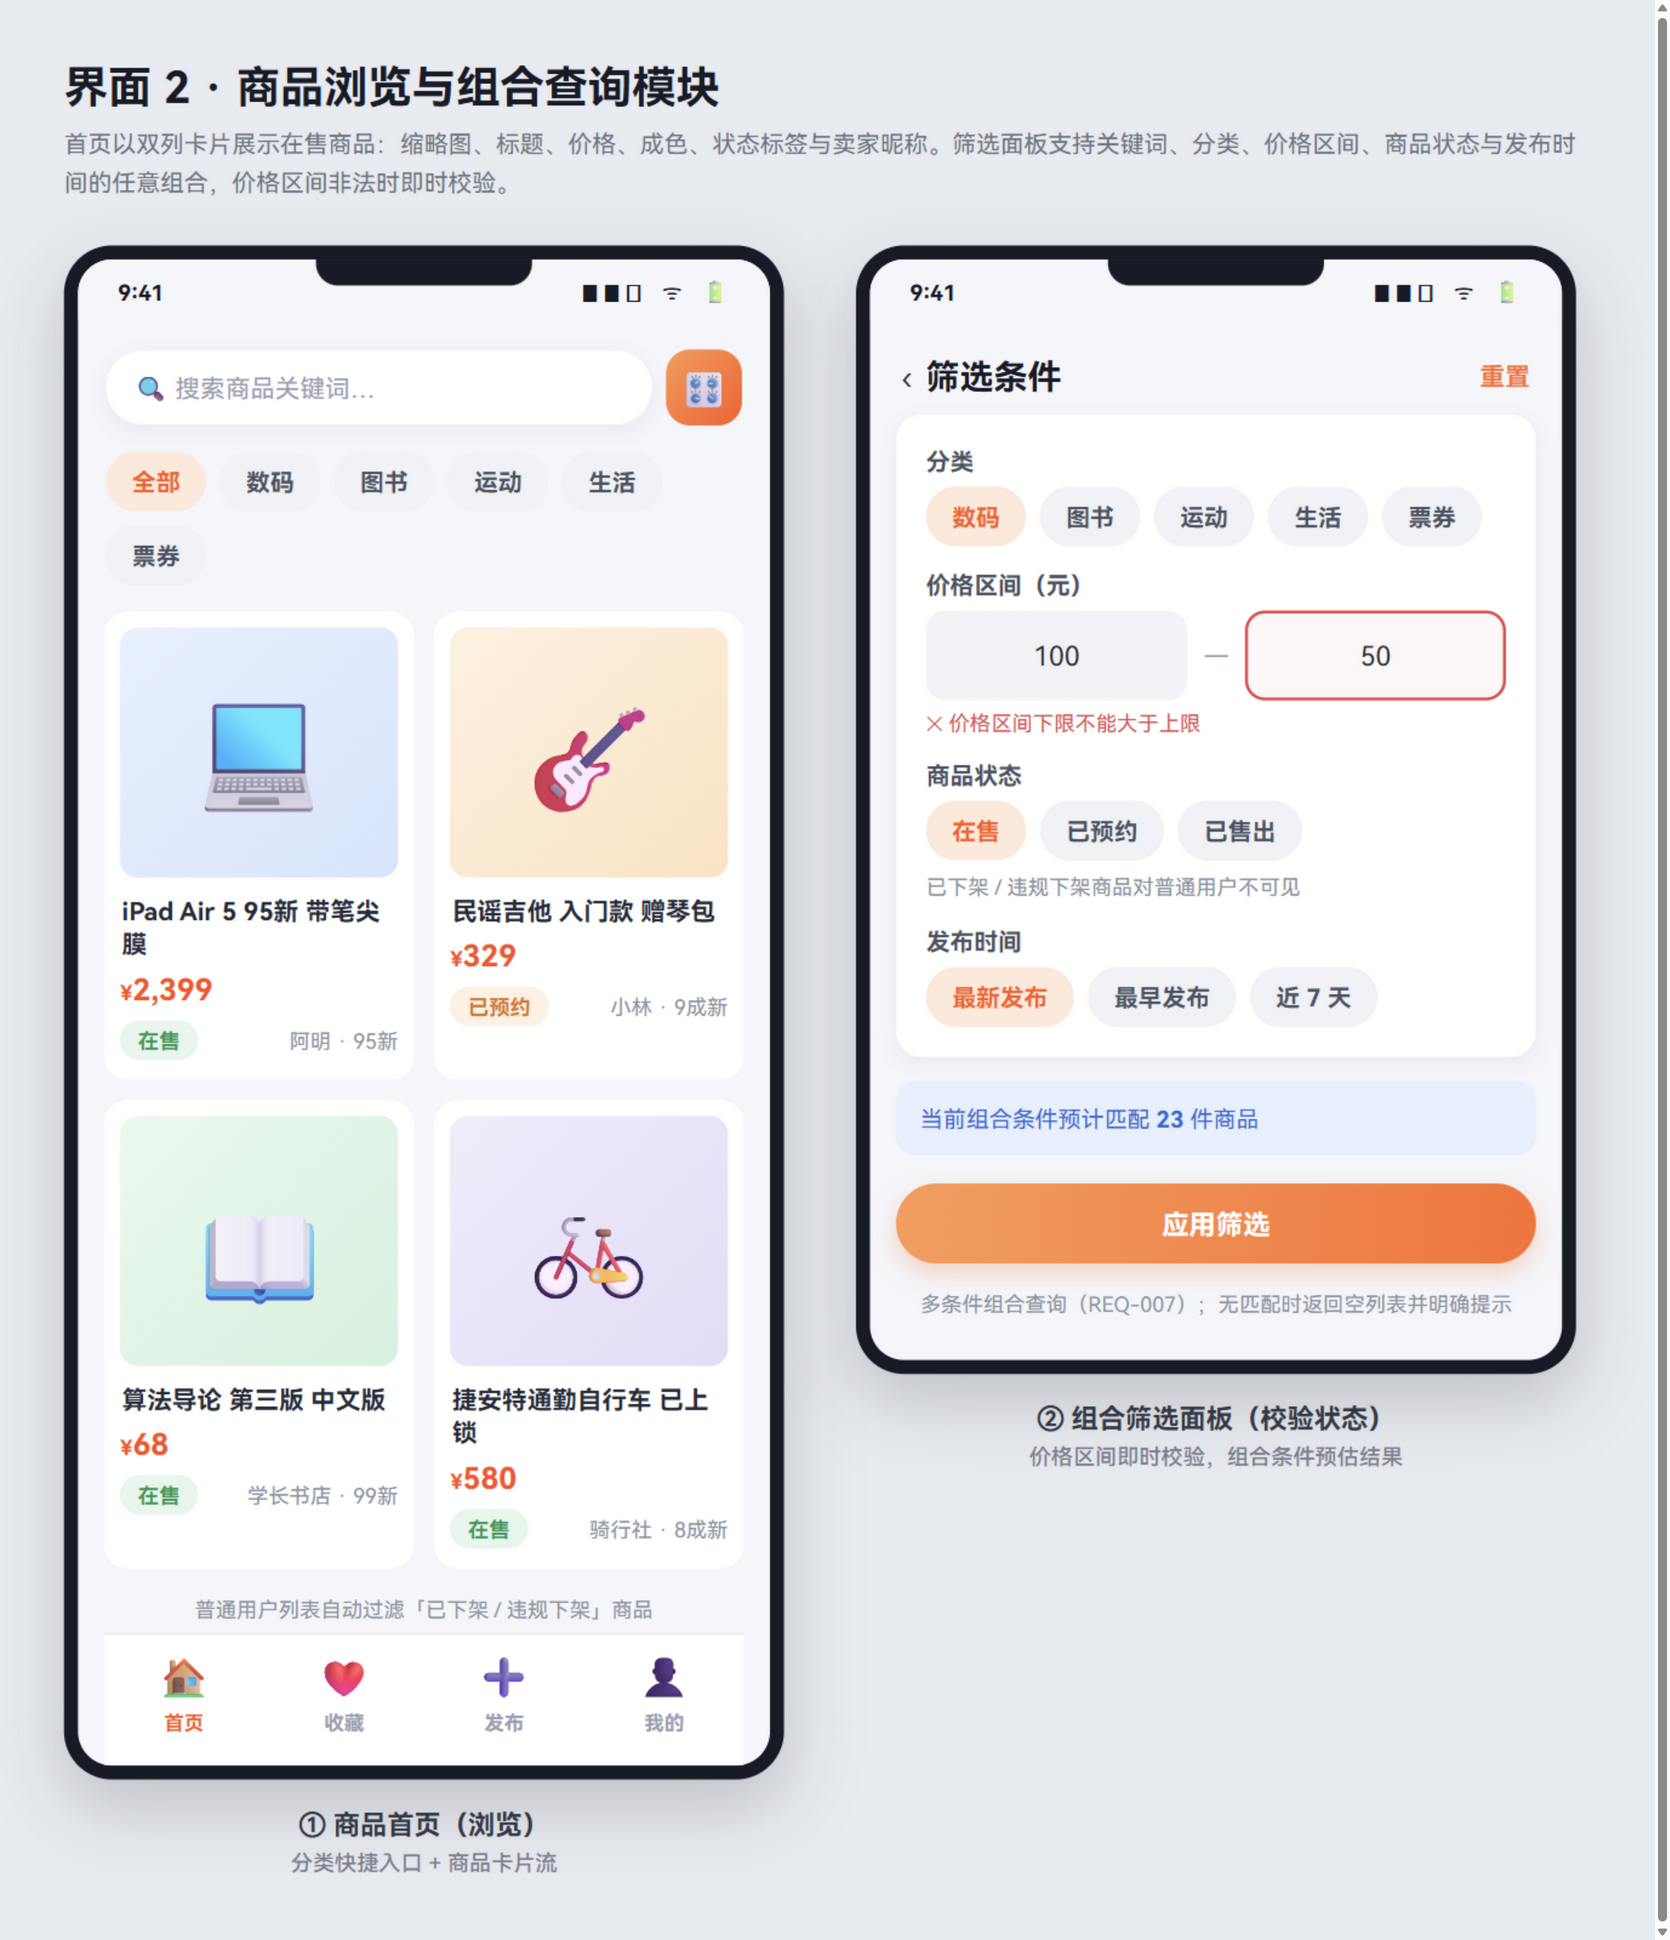
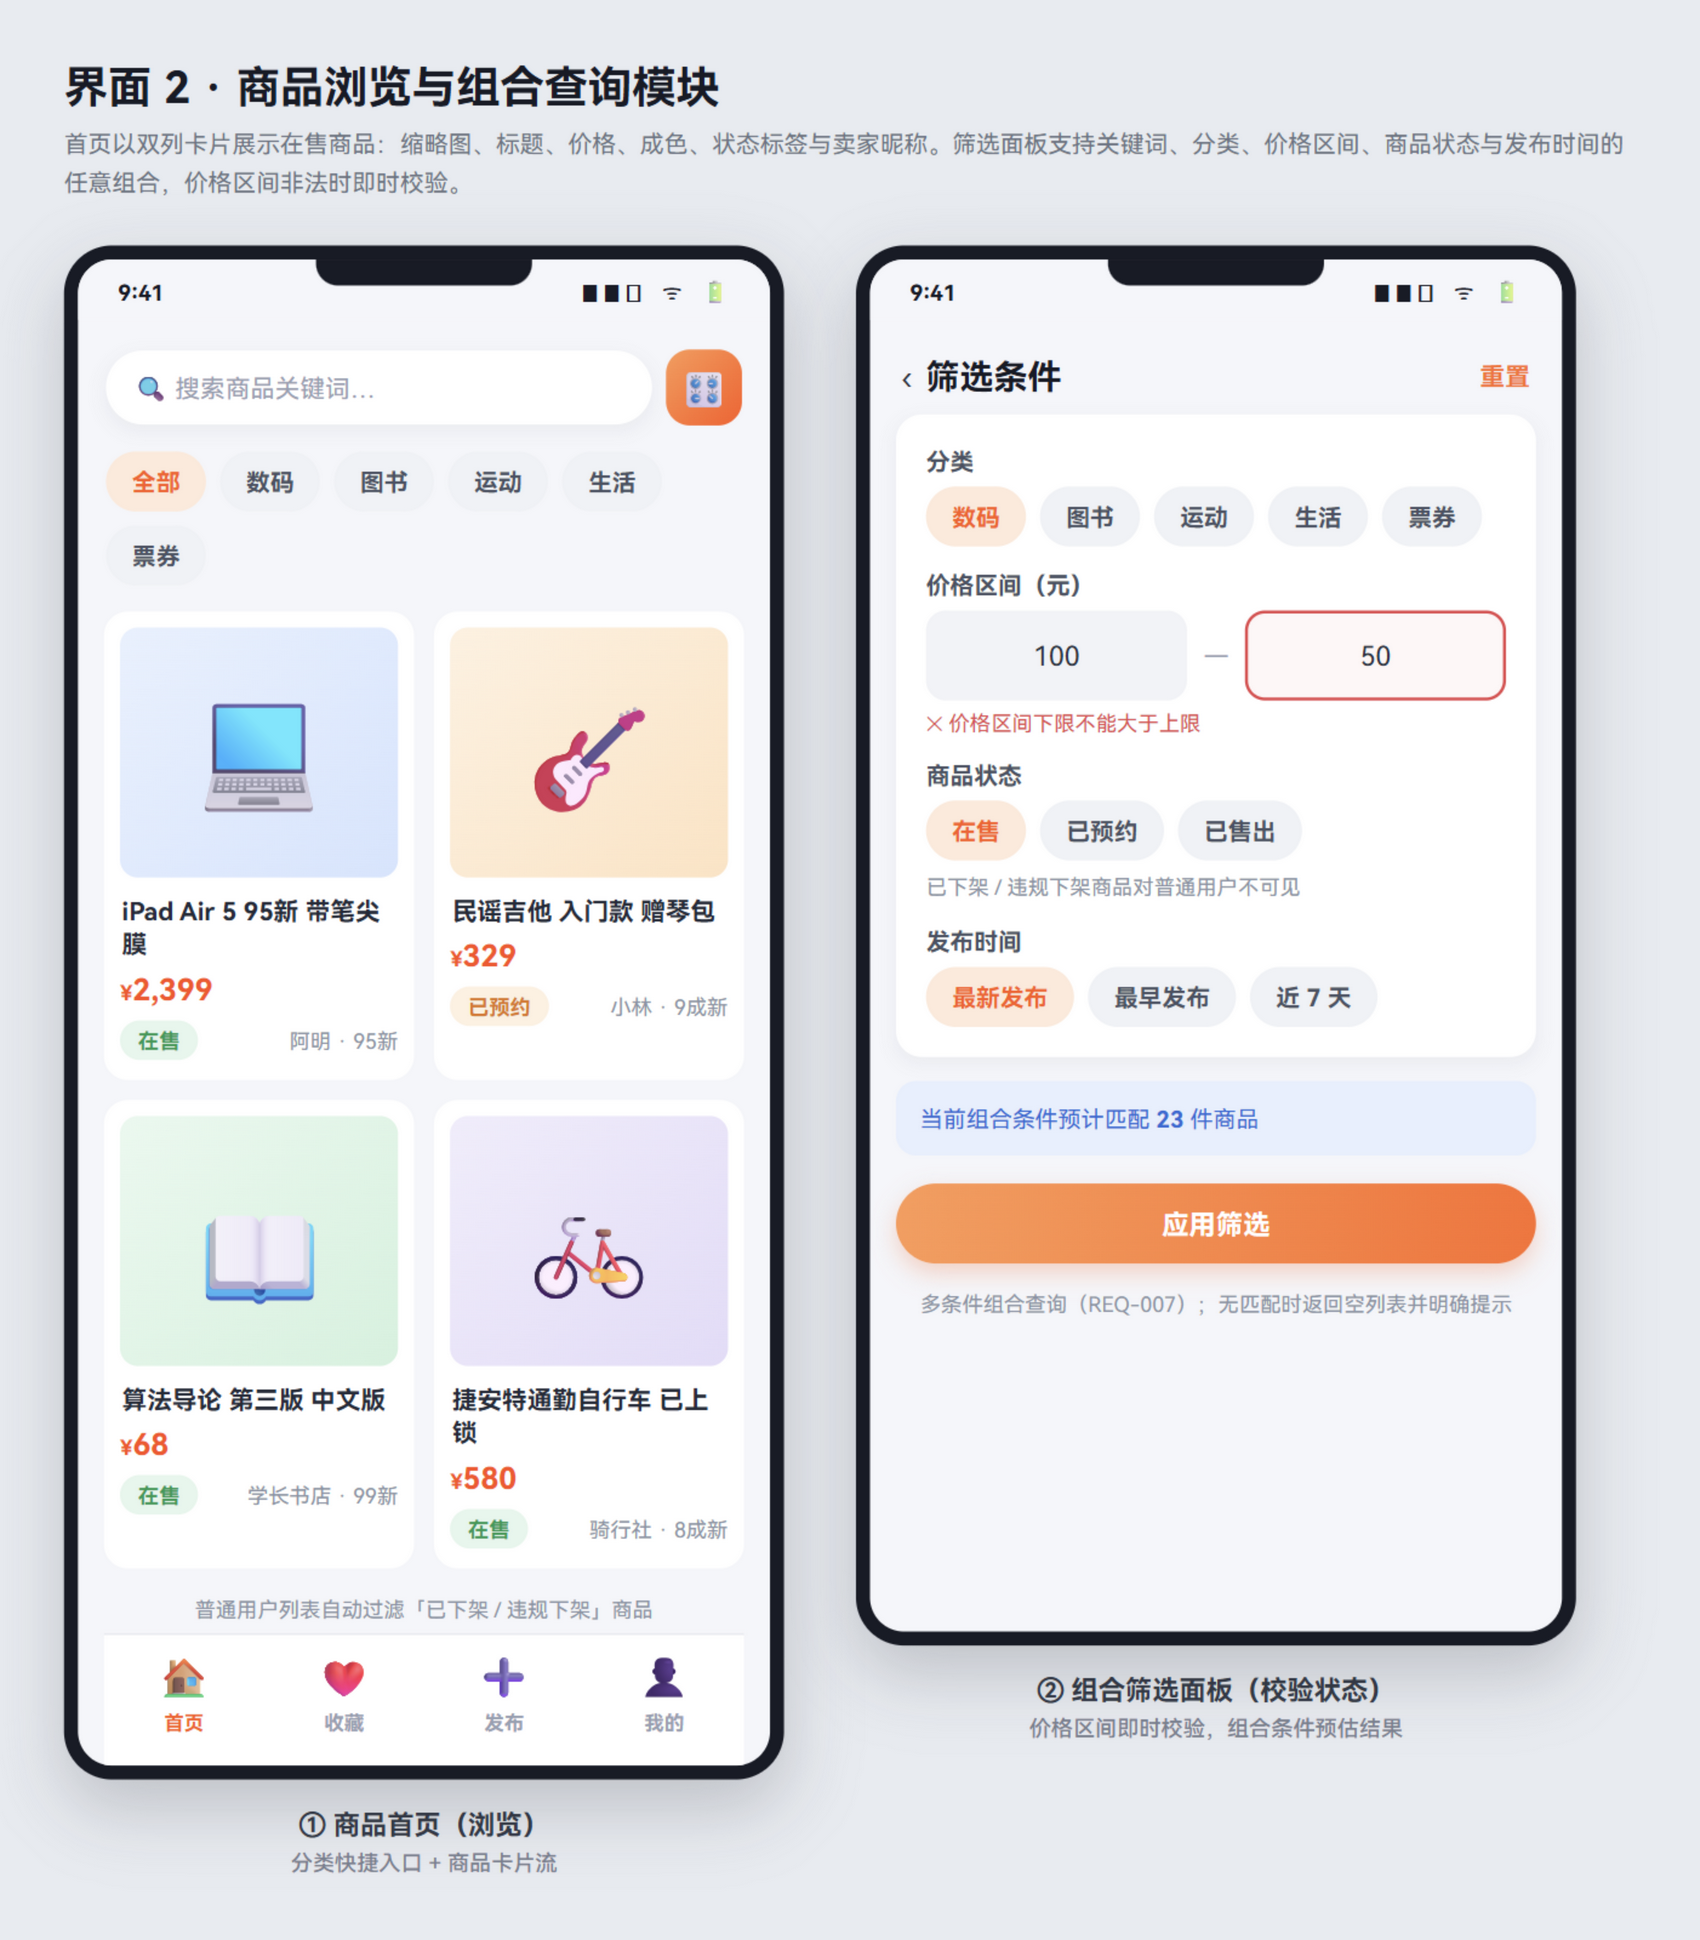
lab2 第四次人工修改：统一 UI 手机样机高度，重新导出全部界面图
[人工修改·第四次] 类别：UI 界面视觉修复

问题（逐屏目检发现）：样机高度随内容自适应，同图内左右两屏高度不一致，视觉不齐

修复：
- .phone 容器增加 min-height:1400px（720px 宽 x 2 倍渲染下）
- 更新 design-src 生成脚本并重新生成 HTML，重新导出 8 张界面 PNG

逐屏复检：冲突弹层、按钮锁定、状态同步等异常态细节与需求条款对应无误

diff --git a/lab2/design-src/ui/界面1.html b/lab2/design-src/ui/界面1.html
@@ -5,7 +5,7 @@ body { background:#E7EBF1; padding:56px 64px 64px; }
 .sub { font-size:24px; color:#6B7484; margin-bottom:44px; line-height:1.6; }
 .row { display:flex; gap:72px; align-items:flex-start; }
 .frame { display:flex; flex-direction:column; }
-.phone { width:720px; background:#F5F6FA; border:14px solid #171B26; border-radius:48px; overflow:hidden;
+.phone { width:720px; min-height:1400px; background:#F5F6FA; border:14px solid #171B26; border-radius:48px; overflow:hidden;
          box-shadow:0 28px 70px rgba(23,27,38,.20); position:relative; display:flex; flex-direction:column; }
 .phone::before { content:""; position:absolute; top:0; left:50%; transform:translateX(-50%);
                   width:216px; height:26px; background:#171B26; border-radius:0 0 22px 22px; z-index:9; }

diff --git a/lab2/design-src/ui/界面2.html b/lab2/design-src/ui/界面2.html
@@ -5,7 +5,7 @@ body { background:#E7EBF1; padding:56px 64px 64px; }
 .sub { font-size:24px; color:#6B7484; margin-bottom:44px; line-height:1.6; }
 .row { display:flex; gap:72px; align-items:flex-start; }
 .frame { display:flex; flex-direction:column; }
-.phone { width:720px; background:#F5F6FA; border:14px solid #171B26; border-radius:48px; overflow:hidden;
+.phone { width:720px; min-height:1400px; background:#F5F6FA; border:14px solid #171B26; border-radius:48px; overflow:hidden;
          box-shadow:0 28px 70px rgba(23,27,38,.20); position:relative; display:flex; flex-direction:column; }
 .phone::before { content:""; position:absolute; top:0; left:50%; transform:translateX(-50%);
                   width:216px; height:26px; background:#171B26; border-radius:0 0 22px 22px; z-index:9; }

diff --git a/lab2/design-src/ui/界面3.html b/lab2/design-src/ui/界面3.html
@@ -5,7 +5,7 @@ body { background:#E7EBF1; padding:56px 64px 64px; }
 .sub { font-size:24px; color:#6B7484; margin-bottom:44px; line-height:1.6; }
 .row { display:flex; gap:72px; align-items:flex-start; }
 .frame { display:flex; flex-direction:column; }
-.phone { width:720px; background:#F5F6FA; border:14px solid #171B26; border-radius:48px; overflow:hidden;
+.phone { width:720px; min-height:1400px; background:#F5F6FA; border:14px solid #171B26; border-radius:48px; overflow:hidden;
          box-shadow:0 28px 70px rgba(23,27,38,.20); position:relative; display:flex; flex-direction:column; }
 .phone::before { content:""; position:absolute; top:0; left:50%; transform:translateX(-50%);
                   width:216px; height:26px; background:#171B26; border-radius:0 0 22px 22px; z-index:9; }

diff --git a/lab2/design-src/ui/界面4.html b/lab2/design-src/ui/界面4.html
@@ -5,7 +5,7 @@ body { background:#E7EBF1; padding:56px 64px 64px; }
 .sub { font-size:24px; color:#6B7484; margin-bottom:44px; line-height:1.6; }
 .row { display:flex; gap:72px; align-items:flex-start; }
 .frame { display:flex; flex-direction:column; }
-.phone { width:720px; background:#F5F6FA; border:14px solid #171B26; border-radius:48px; overflow:hidden;
+.phone { width:720px; min-height:1400px; background:#F5F6FA; border:14px solid #171B26; border-radius:48px; overflow:hidden;
          box-shadow:0 28px 70px rgba(23,27,38,.20); position:relative; display:flex; flex-direction:column; }
 .phone::before { content:""; position:absolute; top:0; left:50%; transform:translateX(-50%);
                   width:216px; height:26px; background:#171B26; border-radius:0 0 22px 22px; z-index:9; }

diff --git a/lab2/design-src/ui/界面5.html b/lab2/design-src/ui/界面5.html
@@ -5,7 +5,7 @@ body { background:#E7EBF1; padding:56px 64px 64px; }
 .sub { font-size:24px; color:#6B7484; margin-bottom:44px; line-height:1.6; }
 .row { display:flex; gap:72px; align-items:flex-start; }
 .frame { display:flex; flex-direction:column; }
-.phone { width:720px; background:#F5F6FA; border:14px solid #171B26; border-radius:48px; overflow:hidden;
+.phone { width:720px; min-height:1400px; background:#F5F6FA; border:14px solid #171B26; border-radius:48px; overflow:hidden;
          box-shadow:0 28px 70px rgba(23,27,38,.20); position:relative; display:flex; flex-direction:column; }
 .phone::before { content:""; position:absolute; top:0; left:50%; transform:translateX(-50%);
                   width:216px; height:26px; background:#171B26; border-radius:0 0 22px 22px; z-index:9; }

diff --git a/lab2/design-src/ui/界面6.html b/lab2/design-src/ui/界面6.html
@@ -5,7 +5,7 @@ body { background:#E7EBF1; padding:56px 64px 64px; }
 .sub { font-size:24px; color:#6B7484; margin-bottom:44px; line-height:1.6; }
 .row { display:flex; gap:72px; align-items:flex-start; }
 .frame { display:flex; flex-direction:column; }
-.phone { width:720px; background:#F5F6FA; border:14px solid #171B26; border-radius:48px; overflow:hidden;
+.phone { width:720px; min-height:1400px; background:#F5F6FA; border:14px solid #171B26; border-radius:48px; overflow:hidden;
          box-shadow:0 28px 70px rgba(23,27,38,.20); position:relative; display:flex; flex-direction:column; }
 .phone::before { content:""; position:absolute; top:0; left:50%; transform:translateX(-50%);
                   width:216px; height:26px; background:#171B26; border-radius:0 0 22px 22px; z-index:9; }

diff --git a/lab2/design-src/ui/界面7.html b/lab2/design-src/ui/界面7.html
@@ -5,7 +5,7 @@ body { background:#E7EBF1; padding:56px 64px 64px; }
 .sub { font-size:24px; color:#6B7484; margin-bottom:44px; line-height:1.6; }
 .row { display:flex; gap:72px; align-items:flex-start; }
 .frame { display:flex; flex-direction:column; }
-.phone { width:720px; background:#F5F6FA; border:14px solid #171B26; border-radius:48px; overflow:hidden;
+.phone { width:720px; min-height:1400px; background:#F5F6FA; border:14px solid #171B26; border-radius:48px; overflow:hidden;
          box-shadow:0 28px 70px rgba(23,27,38,.20); position:relative; display:flex; flex-direction:column; }
 .phone::before { content:""; position:absolute; top:0; left:50%; transform:translateX(-50%);
                   width:216px; height:26px; background:#171B26; border-radius:0 0 22px 22px; z-index:9; }

diff --git a/lab2/design-src/ui/界面8.html b/lab2/design-src/ui/界面8.html
@@ -5,7 +5,7 @@ body { background:#E7EBF1; padding:56px 64px 64px; }
 .sub { font-size:24px; color:#6B7484; margin-bottom:44px; line-height:1.6; }
 .row { display:flex; gap:72px; align-items:flex-start; }
 .frame { display:flex; flex-direction:column; }
-.phone { width:720px; background:#F5F6FA; border:14px solid #171B26; border-radius:48px; overflow:hidden;
+.phone { width:720px; min-height:1400px; background:#F5F6FA; border:14px solid #171B26; border-radius:48px; overflow:hidden;
          box-shadow:0 28px 70px rgba(23,27,38,.20); position:relative; display:flex; flex-direction:column; }
 .phone::before { content:""; position:absolute; top:0; left:50%; transform:translateX(-50%);
                   width:216px; height:26px; background:#171B26; border-radius:0 0 22px 22px; z-index:9; }

diff --git a/lab2/design-src/gen_ui_part1.py b/lab2/design-src/gen_ui_part1.py
@@ -12,7 +12,7 @@ body { background:#E7EBF1; padding:56px 64px 64px; }
 .sub { font-size:24px; color:#6B7484; margin-bottom:44px; line-height:1.6; }
 .row { display:flex; gap:72px; align-items:flex-start; }
 .frame { display:flex; flex-direction:column; }
-.phone { width:720px; background:#F5F6FA; border:14px solid #171B26; border-radius:48px; overflow:hidden;
+.phone { width:720px; min-height:1400px; background:#F5F6FA; border:14px solid #171B26; border-radius:48px; overflow:hidden;
          box-shadow:0 28px 70px rgba(23,27,38,.20); position:relative; display:flex; flex-direction:column; }
 .phone::before { content:""; position:absolute; top:0; left:50%; transform:translateX(-50%);
                   width:216px; height:26px; background:#171B26; border-radius:0 0 22px 22px; z-index:9; }

diff --git a/lab2/design-src/gen_ui_part2.py b/lab2/design-src/gen_ui_part2.py
@@ -12,7 +12,7 @@ body { background:#E7EBF1; padding:56px 64px 64px; }
 .sub { font-size:24px; color:#6B7484; margin-bottom:44px; line-height:1.6; }
 .row { display:flex; gap:72px; align-items:flex-start; }
 .frame { display:flex; flex-direction:column; }
-.phone { width:720px; background:#F5F6FA; border:14px solid #171B26; border-radius:48px; overflow:hidden;
+.phone { width:720px; min-height:1400px; background:#F5F6FA; border:14px solid #171B26; border-radius:48px; overflow:hidden;
          box-shadow:0 28px 70px rgba(23,27,38,.20); position:relative; display:flex; flex-direction:column; }
 .phone::before { content:""; position:absolute; top:0; left:50%; transform:translateX(-50%);
                   width:216px; height:26px; background:#171B26; border-radius:0 0 22px 22px; z-index:9; }

diff --git a/lab2/修改记录/r5-第四次人工修改.md b/lab2/修改记录/r5-第四次人工修改.md
@@ -1,0 +1,18 @@
+# 第四次人工修改（2026-10-24 19:21）
+
+**类型**：UI 界面视觉修复
+
+## 问题（逐屏目检发现）
+
+每台手机样机高度随内容自适应，同一张设计图内左右两屏高度不一致（如界面 1
+登录页矮、注册页高），整体不齐，像未完成的设计稿。
+
+## 修改
+
+- 设计系统 `.phone` 容器增加 `min-height:1400px`（720px 宽 × 2 倍渲染下）；
+- 同步更新 design-src 两个生成脚本并重新生成 HTML；
+- 按统一高度重新导出全部 8 张界面 PNG。
+
+## 结果
+
+两屏等高对齐；逐屏复检冲突弹层、按钮锁定、状态同步等异常态细节与需求条款对应无误。

diff --git a/lab2/README.md b/lab2/README.md
@@ -34,3 +34,4 @@ lab2/
 | 第一次人工修改 | UML 修复 | 修复状态图组合状态连线渲染报错（Error line 81）、用例图 <<include>> 笔误 |
 | 第二次人工修改 | UML 优化 | 类图重构：五个业务包改为「实体层+应用服务层」两层，消除跨包连线交叉 |
 | 第三次人工修改 | UML 优化 | 组件图重排：合并商品/预约交易仓储、精简页面连线，层次依赖单向化 |
+| 第四次人工修改 | UI 优化 | 统一八组界面手机样机高度（min-height），重新导出全部界面图 |
